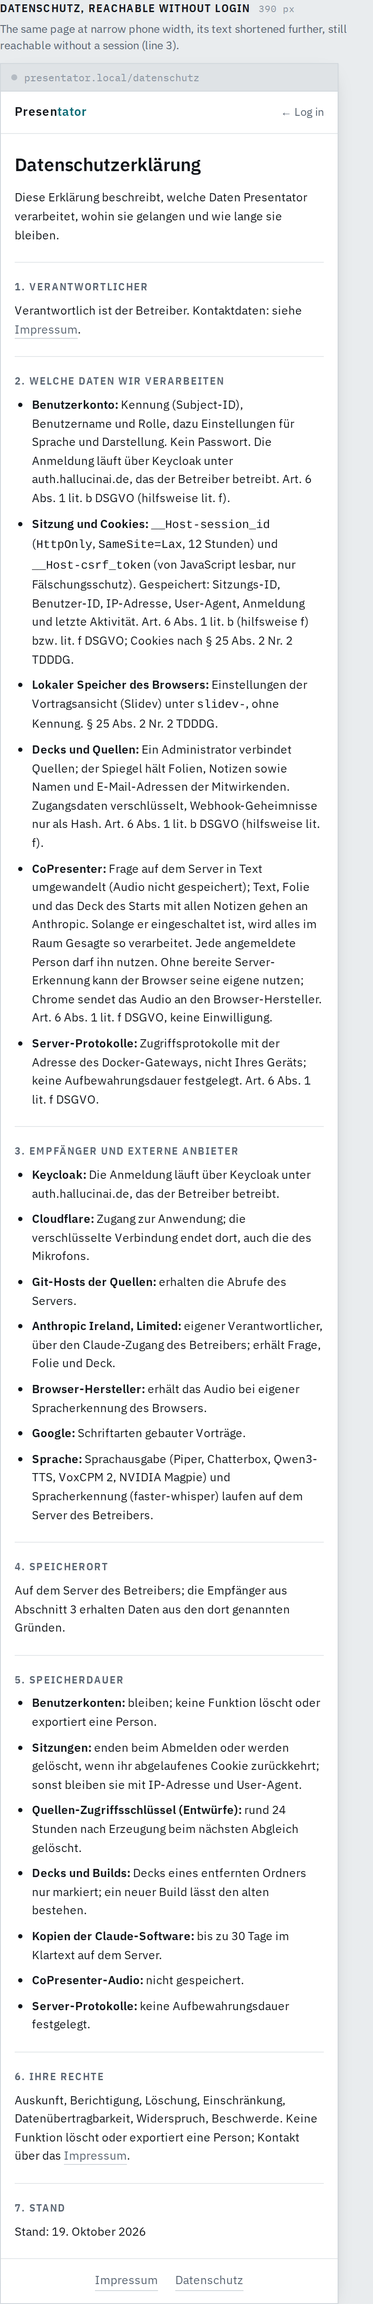
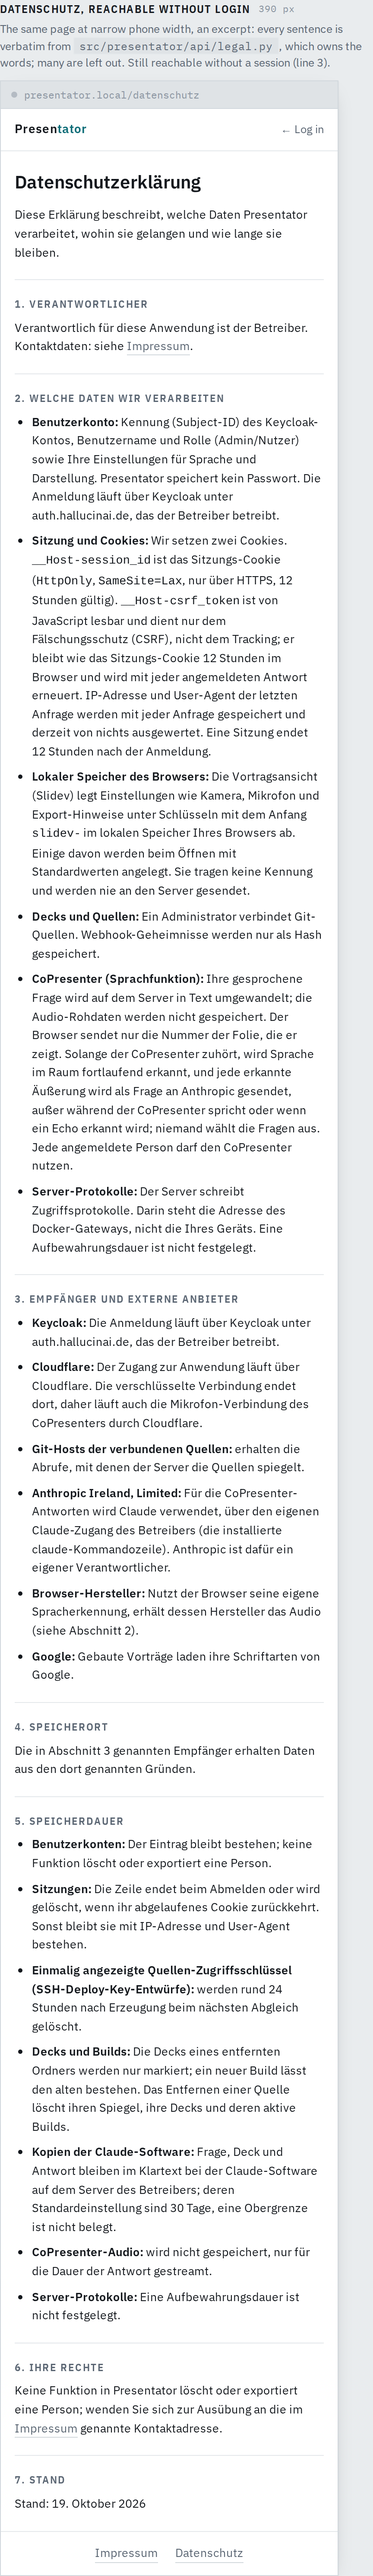
The Datenschutz names no purpose for IP and user agent, the CSRF cookie lifetime, and what the copresenter really sends
Boards are labelled excerpts, every sentence verbatim from legal.py.

diff --git a/docs/mockups/m0-lobby.html b/docs/mockups/m0-lobby.html
@@ -4274,7 +4274,7 @@ Cannot resolve import "./folien/03-fabric.md" from slides.md
       <figure class="board" id="datenschutz">
         <figcaption class="board-cap">
           <div class="board-title">Datenschutz, reachable without login <span class="w">1024 px</span></div>
-          <p class="board-note">The page's layout with the words of <span class="path">src/presentator/api/legal.py</span>, which owns them; the operator approves them before they go online (line 3).</p>
+          <p class="board-note">An excerpt: every sentence is verbatim from <span class="path">src/presentator/api/legal.py</span>, which owns the words; some are left out. The operator approves the wording before it goes online (line 3).</p>
         </figcaption>
         <div class="frame" style="--w: 960px">
           <div class="route">presentator.local/datenschutz</div>
@@ -4298,10 +4298,10 @@ Cannot resolve import "./folien/03-fabric.md" from slides.md
                 <h2>2. Welche Daten wir verarbeiten</h2>
                 <ul>
                   <li><b>Benutzerkonto:</b> Kennung (Subject-ID) des Keycloak-Kontos, Benutzername und Rolle (Admin/Nutzer) sowie Ihre Einstellungen für Sprache und Darstellung. Presentator speichert kein Passwort. Die Anmeldung läuft über Keycloak unter auth.hallucinai.de, das der Betreiber betreibt. Zweck · Rechtsgrundlage: Konto und Einstellungen bereitstellen, Art. 6 Abs. 1 lit. b DSGVO (hilfsweise lit. f).</li>
-                  <li><b>Sitzung und Cookies:</b> <code>__Host-session_id</code> ist das Sitzungs-Cookie (<code>HttpOnly</code>, <code>SameSite=Lax</code>, nur über HTTPS, 12 Stunden gültig). <code>__Host-csrf_token</code> ist von JavaScript lesbar und dient nur dem Fälschungsschutz (CSRF). Gespeichert werden Sitzungs-ID, Benutzer-ID, IP-Adresse, User-Agent und der Zeitpunkt der Anmeldung und der letzten Aktivität. Eine Sitzung endet 12 Stunden nach der Anmeldung. Zweck · Rechtsgrundlage: angemeldet bleiben, Art. 6 Abs. 1 lit. b DSGVO (hilfsweise lit. f); IP-Adresse und User-Agent dienen der Sicherheit der Sitzung, Art. 6 Abs. 1 lit. f DSGVO; die Cookies selbst sind nach § 25 Abs. 2 Nr. 2 TDDDG ohne Einwilligung zulässig.</li>
-                  <li><b>Lokaler Speicher des Browsers:</b> Die Vortragsansicht (Slidev) legt ihre Einstellungen unter Schlüsseln mit dem Anfang <code>slidev-</code> im lokalen Speicher Ihres Browsers ab, ohne Kennung. Zweck · Rechtsgrundlage: die Ansicht so darstellen, wie Sie sie eingestellt haben, § 25 Abs. 2 Nr. 2 TDDDG.</li>
-                  <li><b>Decks und Quellen:</b> Ein Administrator verbindet Git-Quellen. Der Inhalt (Folientitel, Folieninhalt, Sprechernotizen) wird auf den Server gespiegelt und zu Vorträgen gebaut; der Spiegel behält auch die Namen und E-Mail-Adressen der Mitwirkenden aus dem Git-Verlauf. Zugangsdaten einer Quelle werden verschlüsselt gespeichert und nach der Eingabe nur erneuert, nie wieder angezeigt; Webhook-Geheimnisse werden nur als Hash gespeichert. Zweck · Rechtsgrundlage: Vorträge bereitstellen, Art. 6 Abs. 1 lit. b DSGVO (hilfsweise lit. f).</li>
-                  <li><b>CoPresenter (Sprachfunktion):</b> Ihre gesprochene Frage wird auf dem Server in Text umgewandelt; die Audio-Rohdaten werden nicht gespeichert. Der erkannte Text, die aktuelle Folie und das Deck, mit dem der CoPresenter gestartet wurde, jede Folie mit ihren Notizen, werden an Anthropic gesendet. Solange der CoPresenter eingeschaltet ist, wird alles, was im Raum gesagt wird, in Fragen umgewandelt und als Text an Anthropic gesendet. Jede angemeldete Person darf den CoPresenter nutzen. Wenn die Spracherkennung auf dem Server nicht bereit ist, kann der Browser seine eigene nutzen; Chrome sendet dann das Audio an den Browser-Hersteller. Zweck · Rechtsgrundlage: der Vortrag des Betreibers mit gesprochenen Fragen, Art. 6 Abs. 1 lit. f DSGVO; eine Einwilligung wird dafür nicht in Anspruch genommen.</li>
+                  <li><b>Sitzung und Cookies:</b> Wir setzen zwei Cookies. <code>__Host-session_id</code> ist das Sitzungs-Cookie (<code>HttpOnly</code>, <code>SameSite=Lax</code>, nur über HTTPS, 12 Stunden gültig). <code>__Host-csrf_token</code> ist von JavaScript lesbar und dient nur dem Fälschungsschutz (CSRF), nicht dem Tracking; er bleibt wie das Sitzungs-Cookie 12 Stunden im Browser und wird mit jeder angemeldeten Antwort erneuert. Gespeichert werden Sitzungs-ID, Benutzer-ID, IP-Adresse, User-Agent und der Zeitpunkt der Anmeldung und der letzten Aktivität. IP-Adresse und User-Agent der letzten Anfrage werden mit jeder Anfrage gespeichert und derzeit von nichts ausgewertet. Eine Sitzung endet 12 Stunden nach der Anmeldung. Zweck · Rechtsgrundlage: angemeldet bleiben, Art. 6 Abs. 1 lit. b DSGVO (hilfsweise lit. f); die Cookies selbst sind nach § 25 Abs. 2 Nr. 2 TDDDG ohne Einwilligung zulässig.</li>
+                  <li><b>Lokaler Speicher des Browsers:</b> Die Vortragsansicht (Slidev) legt Einstellungen wie Kamera, Mikrofon und Export-Hinweise unter Schlüsseln mit dem Anfang <code>slidev-</code> im lokalen Speicher Ihres Browsers ab. Einige davon werden beim Öffnen mit Standardwerten angelegt. Sie tragen keine Kennung und werden nie an den Server gesendet. Zweck · Rechtsgrundlage: Einstellungen, die Sie selbst wählen, so darstellen, wie Sie sie eingestellt haben, § 25 Abs. 2 Nr. 2 TDDDG.</li>
+                  <li><b>Decks und Quellen:</b> Ein Administrator verbindet Git-Quellen. Der Inhalt (Folientitel, Folieninhalt, Sprechernotizen) wird auf den Server gespiegelt und zu Vorträgen gebaut; der Spiegel behält auch die Namen und E-Mail-Adressen der Mitwirkenden aus dem Git-Verlauf. Zugangsdaten einer Quelle (z. B. ein SSH-Deploy-Key) werden verschlüsselt gespeichert und nach der Eingabe nur erneuert, nie wieder angezeigt; Webhook-Geheimnisse werden nur als Hash gespeichert. Zweck · Rechtsgrundlage: Vorträge bereitstellen, Art. 6 Abs. 1 lit. b DSGVO (hilfsweise lit. f).</li>
+                  <li><b>CoPresenter (Sprachfunktion):</b> Ihre gesprochene Frage wird auf dem Server in Text umgewandelt; die Audio-Rohdaten werden nicht gespeichert. Der Browser sendet nur die Nummer der Folie, die er zeigt. Der erkannte Text, der Inhalt dieser Folie und das Deck, mit dem der CoPresenter gestartet wurde, jede Folie mit ihren Notizen, werden an Anthropic gesendet, um eine Antwort zu erzeugen; dieses Deck kann vom Deck im Browser abweichen. Solange der CoPresenter zuhört, wird Sprache im Raum fortlaufend erkannt, und jede erkannte Äußerung wird als Frage an Anthropic gesendet, außer während der CoPresenter spricht oder wenn ein Echo erkannt wird; niemand wählt die Fragen aus. Jede angemeldete Person darf den CoPresenter nutzen. Wenn die Spracherkennung auf dem Server nicht bereit ist, kann der Browser seine eigene Spracherkennung nutzen; Chrome sendet dann das Audio an den Browser-Hersteller. Zweck · Rechtsgrundlage: der Vortrag des Betreibers mit gesprochenen Fragen, Art. 6 Abs. 1 lit. f DSGVO; eine Einwilligung wird dafür nicht in Anspruch genommen.</li>
                   <li><b>Server-Protokolle:</b> Der Server schreibt Zugriffsprotokolle. Darin steht die Adresse des Docker-Gateways, nicht die Ihres Geräts. Eine Aufbewahrungsdauer ist nicht festgelegt. Zweck · Rechtsgrundlage: Betrieb und Fehlersuche, Art. 6 Abs. 1 lit. f DSGVO.</li>
                 </ul>
               </section>
@@ -4311,7 +4311,7 @@ Cannot resolve import "./folien/03-fabric.md" from slides.md
                   <li><b>Keycloak:</b> Die Anmeldung läuft über Keycloak unter auth.hallucinai.de, das der Betreiber betreibt.</li>
                   <li><b>Cloudflare:</b> Der Zugang zur Anwendung läuft über Cloudflare. Die verschlüsselte Verbindung endet dort, daher läuft auch die Mikrofon-Verbindung des CoPresenters durch Cloudflare.</li>
                   <li><b>Git-Hosts der verbundenen Quellen:</b> erhalten die Abrufe, mit denen der Server die Quellen spiegelt.</li>
-                  <li><b>Anthropic Ireland, Limited:</b> Für die CoPresenter-Antworten wird Claude verwendet, über den eigenen Claude-Zugang des Betreibers (die installierte claude-Kommandozeile). Anthropic ist dafür ein eigener Verantwortlicher. Übertragen werden die gesprochene Frage als Text, die aktuelle Folie und das gesamte Deck.</li>
+                  <li><b>Anthropic Ireland, Limited:</b> Für die CoPresenter-Antworten wird Claude verwendet, über den eigenen Claude-Zugang des Betreibers (die installierte claude-Kommandozeile). Anthropic ist dafür ein eigener Verantwortlicher. Übertragen werden die gesprochene Frage als Text, der Inhalt der Folie, deren Nummer der Browser meldet, und das Deck, mit dem der CoPresenter gestartet wurde.</li>
                   <li><b>Browser-Hersteller:</b> Nutzt der Browser seine eigene Spracherkennung, erhält dessen Hersteller das Audio (siehe Abschnitt 2).</li>
                   <li><b>Google:</b> Gebaute Vorträge laden ihre Schriftarten von Google.</li>
                   <li><b>Sprachausgabe und Spracherkennung:</b> Die Sprachausgabe (Piper, Chatterbox, Qwen3-TTS, VoxCPM 2, NVIDIA Magpie) und die Spracherkennung (faster-whisper) laufen auf dem Server des Betreibers.</li>
@@ -4327,8 +4327,8 @@ Cannot resolve import "./folien/03-fabric.md" from slides.md
                   <li><b>Benutzerkonten:</b> Der Eintrag bleibt bestehen; keine Funktion löscht oder exportiert eine Person.</li>
                   <li><b>Sitzungen:</b> Die Zeile endet beim Abmelden oder wird gelöscht, wenn ihr abgelaufenes Cookie zurückkehrt. Sonst bleibt sie mit IP-Adresse und User-Agent bestehen.</li>
                   <li><b>Einmalig angezeigte Quellen-Zugriffsschlüssel (SSH-Deploy-Key-Entwürfe):</b> werden rund 24 Stunden nach Erzeugung beim nächsten Abgleich gelöscht.</li>
-                  <li><b>Decks und Builds:</b> Die Decks eines entfernten Ordners werden nur markiert; ein neuer Build lässt den alten bestehen.</li>
-                  <li><b>Kopien der Claude-Software:</b> Frage, Deck und Antwort bleiben bis zu 30 Tage im Klartext bei der Claude-Software auf dem Server des Betreibers.</li>
+                  <li><b>Decks und Builds:</b> Die Decks eines entfernten Ordners werden nur markiert; ein neuer Build lässt den alten bestehen. Das Entfernen einer Quelle löscht ihren Spiegel, ihre Decks und deren aktive Builds.</li>
+                  <li><b>Kopien der Claude-Software:</b> Frage, Deck und Antwort bleiben im Klartext bei der Claude-Software auf dem Server des Betreibers; deren Standardeinstellung sind 30 Tage, eine Obergrenze ist nicht belegt.</li>
                   <li><b>CoPresenter-Audio:</b> wird nicht gespeichert, nur für die Dauer der Antwort gestreamt.</li>
                   <li><b>Server-Protokolle:</b> Eine Aufbewahrungsdauer ist nicht festgelegt.</li>
                 </ul>
@@ -4355,7 +4355,7 @@ Cannot resolve import "./folien/03-fabric.md" from slides.md
       <figure class="board">
         <figcaption class="board-cap">
           <div class="board-title">Datenschutz, reachable without login <span class="w">390 px</span></div>
-          <p class="board-note">The same page at narrow phone width, its text shortened further, still reachable without a session (line 3).</p>
+          <p class="board-note">The same page at narrow phone width, an excerpt: every sentence is verbatim from <span class="path">src/presentator/api/legal.py</span>, which owns the words; many are left out. Still reachable without a session (line 3).</p>
         </figcaption>
         <div class="frame" style="--w: 390px">
           <div class="route">presentator.local/datenschutz</div>
@@ -4373,50 +4373,49 @@ Cannot resolve import "./folien/03-fabric.md" from slides.md
               </section>
               <section>
                 <h2>1. Verantwortlicher</h2>
-                <p>Verantwortlich ist der Betreiber. Kontaktdaten: siehe <a class="linkish" href="https://hallucinai.de/impressum">Impressum</a>.</p>
+                <p>Verantwortlich für diese Anwendung ist der Betreiber. Kontaktdaten: siehe <a class="linkish" href="https://hallucinai.de/impressum">Impressum</a>.</p>
               </section>
               <section>
                 <h2>2. Welche Daten wir verarbeiten</h2>
                 <ul>
-                  <li><b>Benutzerkonto:</b> Kennung (Subject-ID), Benutzername und Rolle, dazu Einstellungen für Sprache und Darstellung. Kein Passwort. Die Anmeldung läuft über Keycloak unter auth.hallucinai.de, das der Betreiber betreibt. Art. 6 Abs. 1 lit. b DSGVO (hilfsweise lit. f).</li>
-                  <li><b>Sitzung und Cookies:</b> <code>__Host-session_id</code> (<code>HttpOnly</code>, <code>SameSite=Lax</code>, 12 Stunden) und <code>__Host-csrf_token</code> (von JavaScript lesbar, nur Fälschungsschutz). Gespeichert: Sitzungs-ID, Benutzer-ID, IP-Adresse, User-Agent, Anmeldung und letzte Aktivität. Art. 6 Abs. 1 lit. b (hilfsweise f) bzw. lit. f DSGVO; Cookies nach § 25 Abs. 2 Nr. 2 TDDDG.</li>
-                  <li><b>Lokaler Speicher des Browsers:</b> Einstellungen der Vortragsansicht (Slidev) unter <code>slidev-</code>, ohne Kennung. § 25 Abs. 2 Nr. 2 TDDDG.</li>
-                  <li><b>Decks und Quellen:</b> Ein Administrator verbindet Quellen; der Spiegel hält Folien, Notizen sowie Namen und E-Mail-Adressen der Mitwirkenden. Zugangsdaten verschlüsselt, Webhook-Geheimnisse nur als Hash. Art. 6 Abs. 1 lit. b DSGVO (hilfsweise lit. f).</li>
-                  <li><b>CoPresenter:</b> Frage auf dem Server in Text umgewandelt (Audio nicht gespeichert); Text, Folie und das Deck des Starts mit allen Notizen gehen an Anthropic. Solange er eingeschaltet ist, wird alles im Raum Gesagte so verarbeitet. Jede angemeldete Person darf ihn nutzen. Ohne bereite Server-Erkennung kann der Browser seine eigene nutzen; Chrome sendet das Audio an den Browser-Hersteller. Art. 6 Abs. 1 lit. f DSGVO, keine Einwilligung.</li>
-                  <li><b>Server-Protokolle:</b> Zugriffsprotokolle mit der Adresse des Docker-Gateways, nicht Ihres Geräts; keine Aufbewahrungsdauer festgelegt. Art. 6 Abs. 1 lit. f DSGVO.</li>
+                  <li><b>Benutzerkonto:</b> Kennung (Subject-ID) des Keycloak-Kontos, Benutzername und Rolle (Admin/Nutzer) sowie Ihre Einstellungen für Sprache und Darstellung. Presentator speichert kein Passwort. Die Anmeldung läuft über Keycloak unter auth.hallucinai.de, das der Betreiber betreibt.</li>
+                  <li><b>Sitzung und Cookies:</b> Wir setzen zwei Cookies. <code>__Host-session_id</code> ist das Sitzungs-Cookie (<code>HttpOnly</code>, <code>SameSite=Lax</code>, nur über HTTPS, 12 Stunden gültig). <code>__Host-csrf_token</code> ist von JavaScript lesbar und dient nur dem Fälschungsschutz (CSRF), nicht dem Tracking; er bleibt wie das Sitzungs-Cookie 12 Stunden im Browser und wird mit jeder angemeldeten Antwort erneuert. IP-Adresse und User-Agent der letzten Anfrage werden mit jeder Anfrage gespeichert und derzeit von nichts ausgewertet. Eine Sitzung endet 12 Stunden nach der Anmeldung.</li>
+                  <li><b>Lokaler Speicher des Browsers:</b> Die Vortragsansicht (Slidev) legt Einstellungen wie Kamera, Mikrofon und Export-Hinweise unter Schlüsseln mit dem Anfang <code>slidev-</code> im lokalen Speicher Ihres Browsers ab. Einige davon werden beim Öffnen mit Standardwerten angelegt. Sie tragen keine Kennung und werden nie an den Server gesendet.</li>
+                  <li><b>Decks und Quellen:</b> Ein Administrator verbindet Git-Quellen. Webhook-Geheimnisse werden nur als Hash gespeichert.</li>
+                  <li><b>CoPresenter (Sprachfunktion):</b> Ihre gesprochene Frage wird auf dem Server in Text umgewandelt; die Audio-Rohdaten werden nicht gespeichert. Der Browser sendet nur die Nummer der Folie, die er zeigt. Solange der CoPresenter zuhört, wird Sprache im Raum fortlaufend erkannt, und jede erkannte Äußerung wird als Frage an Anthropic gesendet, außer während der CoPresenter spricht oder wenn ein Echo erkannt wird; niemand wählt die Fragen aus. Jede angemeldete Person darf den CoPresenter nutzen.</li>
+                  <li><b>Server-Protokolle:</b> Der Server schreibt Zugriffsprotokolle. Darin steht die Adresse des Docker-Gateways, nicht die Ihres Geräts. Eine Aufbewahrungsdauer ist nicht festgelegt.</li>
                 </ul>
               </section>
               <section>
                 <h2>3. Empfänger und externe Anbieter</h2>
                 <ul>
                   <li><b>Keycloak:</b> Die Anmeldung läuft über Keycloak unter auth.hallucinai.de, das der Betreiber betreibt.</li>
-                  <li><b>Cloudflare:</b> Zugang zur Anwendung; die verschlüsselte Verbindung endet dort, auch die des Mikrofons.</li>
-                  <li><b>Git-Hosts der Quellen:</b> erhalten die Abrufe des Servers.</li>
-                  <li><b>Anthropic Ireland, Limited:</b> eigener Verantwortlicher, über den Claude-Zugang des Betreibers; erhält Frage, Folie und Deck.</li>
-                  <li><b>Browser-Hersteller:</b> erhält das Audio bei eigener Spracherkennung des Browsers.</li>
-                  <li><b>Google:</b> Schriftarten gebauter Vorträge.</li>
-                  <li><b>Sprache:</b> Sprachausgabe (Piper, Chatterbox, Qwen3-TTS, VoxCPM 2, NVIDIA Magpie) und Spracherkennung (faster-whisper) laufen auf dem Server des Betreibers.</li>
+                  <li><b>Cloudflare:</b> Der Zugang zur Anwendung läuft über Cloudflare. Die verschlüsselte Verbindung endet dort, daher läuft auch die Mikrofon-Verbindung des CoPresenters durch Cloudflare.</li>
+                  <li><b>Git-Hosts der verbundenen Quellen:</b> erhalten die Abrufe, mit denen der Server die Quellen spiegelt.</li>
+                  <li><b>Anthropic Ireland, Limited:</b> Für die CoPresenter-Antworten wird Claude verwendet, über den eigenen Claude-Zugang des Betreibers (die installierte claude-Kommandozeile). Anthropic ist dafür ein eigener Verantwortlicher.</li>
+                  <li><b>Browser-Hersteller:</b> Nutzt der Browser seine eigene Spracherkennung, erhält dessen Hersteller das Audio (siehe Abschnitt 2).</li>
+                  <li><b>Google:</b> Gebaute Vorträge laden ihre Schriftarten von Google.</li>
                 </ul>
               </section>
               <section>
                 <h2>4. Speicherort</h2>
-                <p>Auf dem Server des Betreibers; die Empfänger aus Abschnitt 3 erhalten Daten aus den dort genannten Gründen.</p>
+                <p>Die in Abschnitt 3 genannten Empfänger erhalten Daten aus den dort genannten Gründen.</p>
               </section>
               <section>
                 <h2>5. Speicherdauer</h2>
                 <ul>
-                  <li><b>Benutzerkonten:</b> bleiben; keine Funktion löscht oder exportiert eine Person.</li>
-                  <li><b>Sitzungen:</b> enden beim Abmelden oder werden gelöscht, wenn ihr abgelaufenes Cookie zurückkehrt; sonst bleiben sie mit IP-Adresse und User-Agent.</li>
-                  <li><b>Quellen-Zugriffsschlüssel (Entwürfe):</b> rund 24 Stunden nach Erzeugung beim nächsten Abgleich gelöscht.</li>
-                  <li><b>Decks und Builds:</b> Decks eines entfernten Ordners nur markiert; ein neuer Build lässt den alten bestehen.</li>
-                  <li><b>Kopien der Claude-Software:</b> bis zu 30 Tage im Klartext auf dem Server.</li>
-                  <li><b>CoPresenter-Audio:</b> nicht gespeichert.</li>
-                  <li><b>Server-Protokolle:</b> keine Aufbewahrungsdauer festgelegt.</li>
+                  <li><b>Benutzerkonten:</b> Der Eintrag bleibt bestehen; keine Funktion löscht oder exportiert eine Person.</li>
+                  <li><b>Sitzungen:</b> Die Zeile endet beim Abmelden oder wird gelöscht, wenn ihr abgelaufenes Cookie zurückkehrt. Sonst bleibt sie mit IP-Adresse und User-Agent bestehen.</li>
+                  <li><b>Einmalig angezeigte Quellen-Zugriffsschlüssel (SSH-Deploy-Key-Entwürfe):</b> werden rund 24 Stunden nach Erzeugung beim nächsten Abgleich gelöscht.</li>
+                  <li><b>Decks und Builds:</b> Die Decks eines entfernten Ordners werden nur markiert; ein neuer Build lässt den alten bestehen. Das Entfernen einer Quelle löscht ihren Spiegel, ihre Decks und deren aktive Builds.</li>
+                  <li><b>Kopien der Claude-Software:</b> Frage, Deck und Antwort bleiben im Klartext bei der Claude-Software auf dem Server des Betreibers; deren Standardeinstellung sind 30 Tage, eine Obergrenze ist nicht belegt.</li>
+                  <li><b>CoPresenter-Audio:</b> wird nicht gespeichert, nur für die Dauer der Antwort gestreamt.</li>
+                  <li><b>Server-Protokolle:</b> Eine Aufbewahrungsdauer ist nicht festgelegt.</li>
                 </ul>
               </section>
               <section>
                 <h2>6. Ihre Rechte</h2>
-                <p>Auskunft, Berichtigung, Löschung, Einschränkung, Datenübertragbarkeit, Widerspruch, Beschwerde. Keine Funktion löscht oder exportiert eine Person; Kontakt über das <a class="linkish" href="https://hallucinai.de/impressum">Impressum</a>.</p>
+                <p>Keine Funktion in Presentator löscht oder exportiert eine Person; wenden Sie sich zur Ausübung an die im <a class="linkish" href="https://hallucinai.de/impressum">Impressum</a> genannte Kontaktadresse.</p>
               </section>
               <section>
                 <h2>7. Stand</h2>

diff --git a/src/presentator/api/legal.py b/src/presentator/api/legal.py
@@ -107,23 +107,29 @@ DATENSCHUTZ: Final = LegalDocument(
                     "Sitzungs-Cookie (HttpOnly, SameSite=Lax, nur über HTTPS, "
                     f"{_SESSION_HOURS} Stunden gültig). __Host-csrf_token ist "
                     "von JavaScript lesbar und dient nur dem Fälschungsschutz "
-                    "(CSRF), nicht dem Tracking. Gespeichert werden "
+                    "(CSRF), nicht dem Tracking; er bleibt wie das Sitzungs-Cookie "
+                    f"{_SESSION_HOURS} Stunden im Browser und wird mit jeder "
+                    "angemeldeten Antwort erneuert. Gespeichert werden "
                     "Sitzungs-ID, Benutzer-ID, IP-Adresse, User-Agent und der "
-                    "Zeitpunkt der Anmeldung und der letzten Aktivität. Eine "
+                    "Zeitpunkt der Anmeldung und der letzten Aktivität. IP-Adresse "
+                    "und User-Agent der letzten Anfrage werden mit jeder Anfrage "
+                    "gespeichert und derzeit von nichts ausgewertet. Eine "
                     f"Sitzung endet {_SESSION_HOURS} Stunden nach der Anmeldung. "
                     "Zweck · Rechtsgrundlage: angemeldet bleiben, "
-                    f"{_BASIS_CONTRACT}; IP-Adresse und User-Agent dienen der "
-                    f"Sicherheit der Sitzung, {_BASIS_INTEREST}; die Cookies "
+                    f"{_BASIS_CONTRACT}; die Cookies "
                     "selbst sind nach § 25 Abs. 2 Nr. 2 TDDDG ohne Einwilligung "
                     "zulässig.",
                 ),
                 _point(
                     "Lokaler Speicher des Browsers:",
-                    "Die Vortragsansicht (Slidev) legt ihre Einstellungen unter "
-                    "Schlüsseln mit dem Anfang slidev- im lokalen Speicher Ihres "
-                    "Browsers ab, ohne Kennung. Zweck · Rechtsgrundlage: die "
-                    "Ansicht so darstellen, wie Sie sie eingestellt haben, "
-                    "§ 25 Abs. 2 Nr. 2 TDDDG.",
+                    "Die Vortragsansicht (Slidev) legt Einstellungen wie Kamera, "
+                    "Mikrofon und Export-Hinweise unter Schlüsseln mit dem "
+                    "Anfang slidev- im lokalen Speicher Ihres Browsers ab. "
+                    "Einige davon werden beim Öffnen mit Standardwerten "
+                    "angelegt. Sie tragen keine Kennung und werden nie an den "
+                    "Server gesendet. Zweck · Rechtsgrundlage: Einstellungen, "
+                    "die Sie selbst wählen, so darstellen, wie Sie sie "
+                    "eingestellt haben, § 25 Abs. 2 Nr. 2 TDDDG.",
                 ),
                 _point(
                     "Decks und Quellen:",
@@ -142,12 +148,16 @@ DATENSCHUTZ: Final = LegalDocument(
                     "CoPresenter (Sprachfunktion):",
                     "Ihre gesprochene Frage wird auf dem Server in Text "
                     "umgewandelt; die Audio-Rohdaten werden nicht gespeichert. "
-                    "Der erkannte Text, die aktuelle Folie und das Deck, mit "
-                    "dem der CoPresenter gestartet wurde, jede Folie mit ihren "
-                    "Notizen, werden an Anthropic gesendet, um eine Antwort zu "
-                    "erzeugen. Solange der CoPresenter eingeschaltet ist, wird "
-                    "alles, was im Raum gesagt wird, in Fragen umgewandelt und "
-                    "als Text an Anthropic gesendet. Jede angemeldete Person "
+                    "Der Browser sendet nur die Nummer der Folie, die er zeigt. "
+                    "Der erkannte Text, der Inhalt dieser Folie und das Deck, "
+                    "mit dem der CoPresenter gestartet wurde, jede Folie mit "
+                    "ihren Notizen, werden an Anthropic gesendet, um eine "
+                    "Antwort zu erzeugen; dieses Deck kann vom Deck im Browser "
+                    "abweichen. Solange der CoPresenter zuhört, wird Sprache im "
+                    "Raum fortlaufend erkannt, und jede erkannte Äußerung wird "
+                    "als Frage an Anthropic gesendet, außer während der "
+                    "CoPresenter spricht oder wenn ein Echo erkannt wird; "
+                    "niemand wählt die Fragen aus. Jede angemeldete Person "
                     "darf den CoPresenter nutzen. Die gesprochene Antwort wird "
                     "auf dem Server erzeugt und nur für die Wiedergabe "
                     "gestreamt. Wenn die Spracherkennung auf dem Server nicht "
@@ -193,7 +203,8 @@ DATENSCHUTZ: Final = LegalDocument(
                     "den eigenen Claude-Zugang des Betreibers (die installierte "
                     "claude-Kommandozeile). Anthropic ist dafür ein eigener "
                     "Verantwortlicher. Übertragen werden die gesprochene Frage "
-                    "als Text, die aktuelle Folie und das gesamte Deck.",
+                    "als Text, der Inhalt der Folie, deren Nummer der Browser meldet, und "
+                    "das Deck, mit dem der CoPresenter gestartet wurde.",
                 ),
                 _point(
                     "Browser-Hersteller:",
@@ -247,12 +258,16 @@ DATENSCHUTZ: Final = LegalDocument(
                 _point(
                     "Decks und Builds:",
                     "Die Decks eines entfernten Ordners werden nur markiert; "
-                    "ein neuer Build lässt den alten bestehen.",
+                    "ein neuer Build lässt den alten bestehen. Das Entfernen "
+                    "einer Quelle löscht ihren Spiegel, ihre Decks und deren "
+                    "aktive Builds.",
                 ),
                 _point(
                     "Kopien der Claude-Software:",
-                    "Frage, Deck und Antwort bleiben bis zu 30 Tage im Klartext "
-                    "bei der Claude-Software auf dem Server des Betreibers.",
+                    "Frage, Deck und Antwort bleiben im Klartext bei der "
+                    "Claude-Software auf dem Server des Betreibers; deren "
+                    "Standardeinstellung sind 30 Tage, eine Obergrenze ist "
+                    "nicht belegt.",
                 ),
                 _point(
                     "CoPresenter-Audio:",

diff --git a/tests/api/test_auth.py b/tests/api/test_auth.py
@@ -566,12 +566,13 @@ def test_the_datenschutz_names_the_hours_the_code_keeps_a_draft_and_a_session(
 
     assert f"rund {draft_hours} Stunden nach Erzeugung" in page
     assert f"{session_hours} Stunden" in page
+    assert f"{session_hours} Stunden im Browser" in page
 
 
 @pytest.mark.parametrize(
     "cookie_name", ["__Host-session_id", "__Host-csrf_token", "slidev-"]
 )
-def test_the_datenschutz_names_every_cookie_it_sets(
+def test_the_datenschutz_names_every_cookie_and_storage_key(
     lobby: Lobby,
     cookie_name: str,
 ) -> None:
